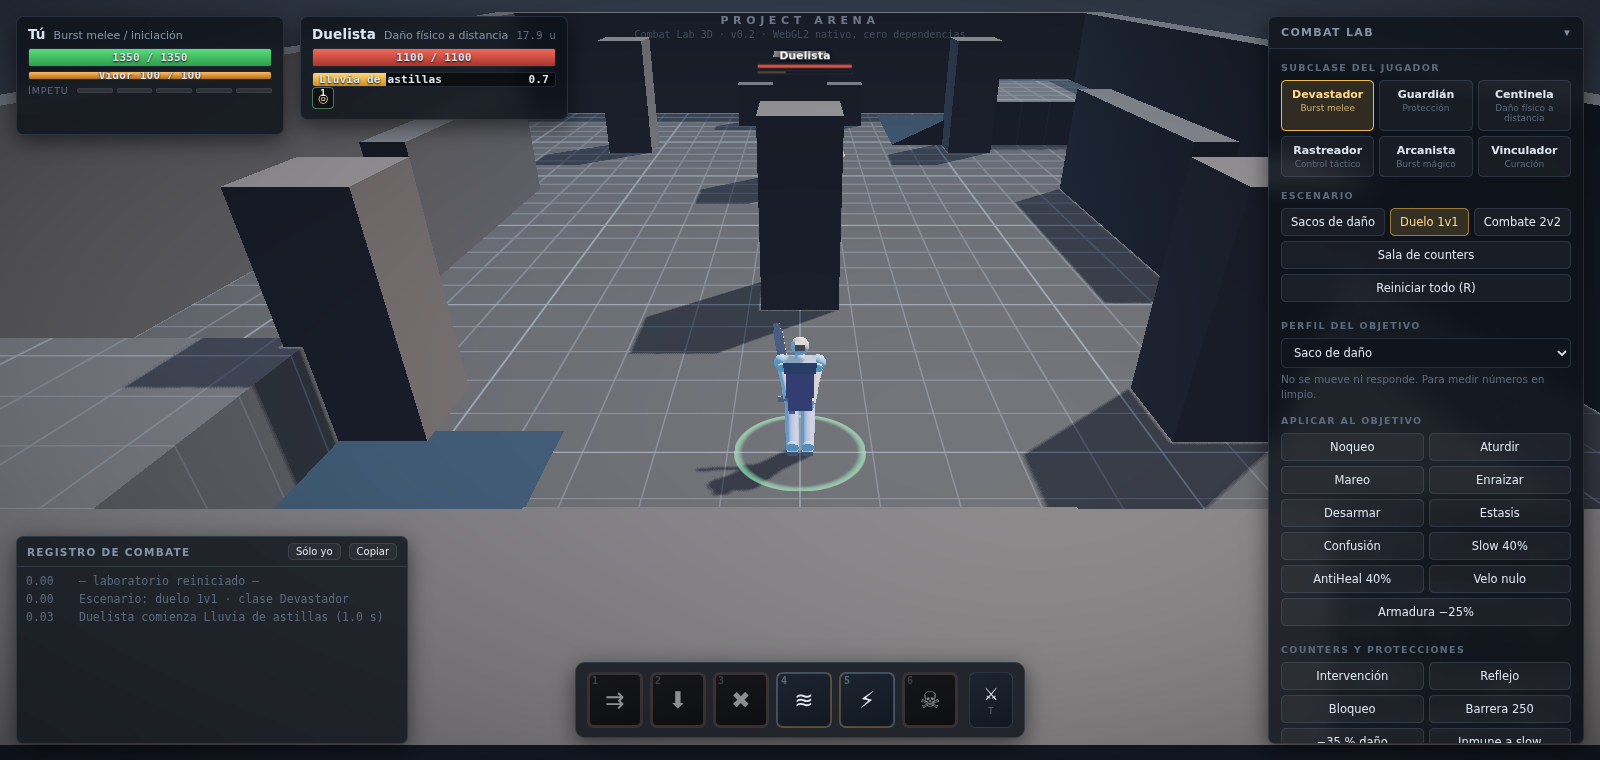
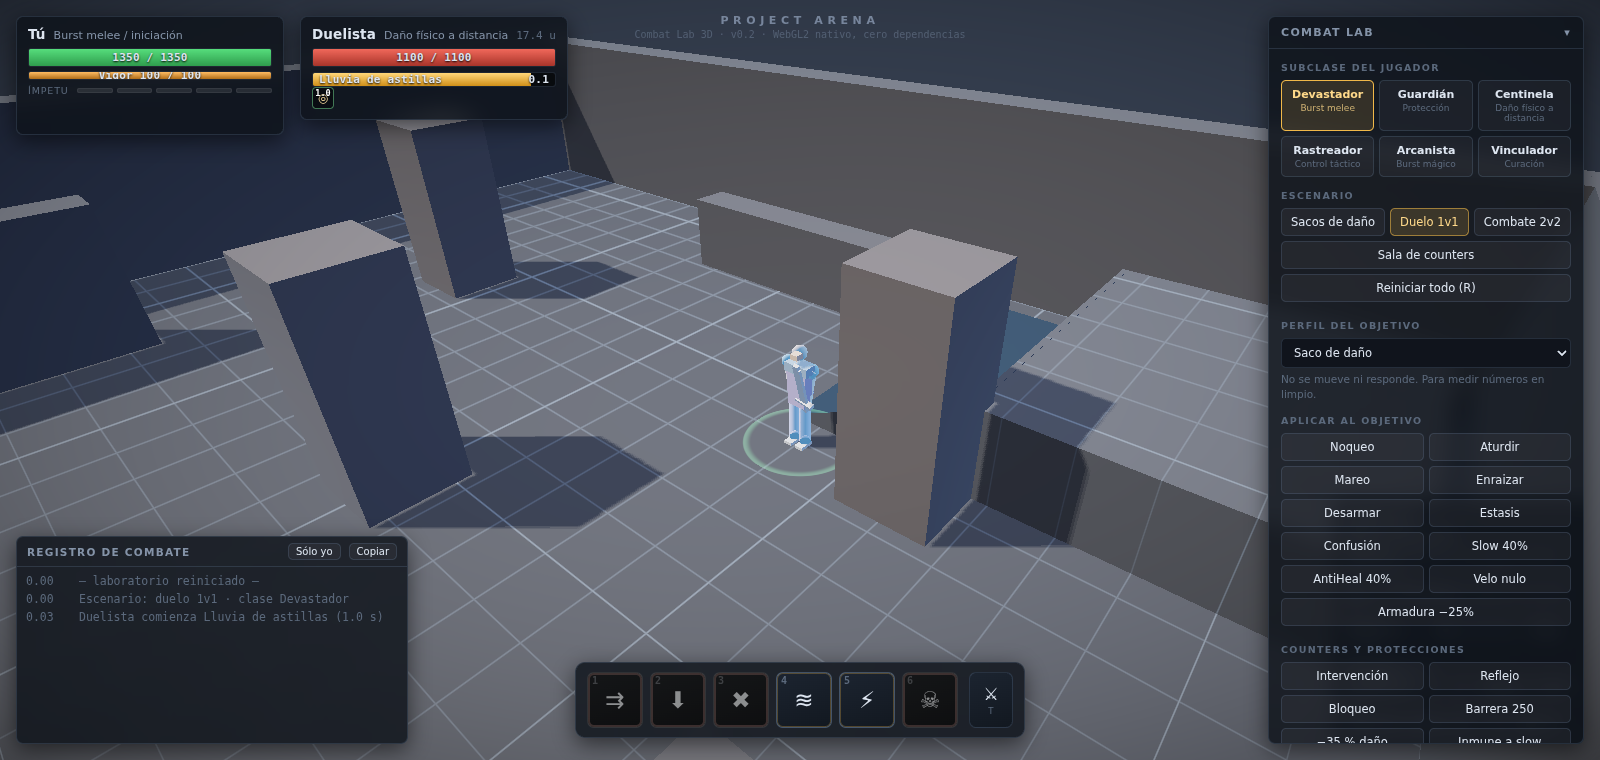
Luz de relleno: las siluetas dejan de fundirse con el fondo a contraluz
Segunda direccional fría, sin sombras, desde el lado opuesto a la principal.
Sin ella media silueta caía a negro justo cuando hay que leer quién es y qué
está haciendo, que es lo contrario del pilar de lectura visual inmediata.

Claude-Session: https://claude.ai/code/session_016cQCucQ5YPFtW8noBMGM6Q

diff --git a/js/render/shaders.js b/js/render/shaders.js
@@ -167,6 +167,13 @@ void main() {
 
   vec3 diffuse = uLightColor * ndl * shadow;
 
+  // Luz de relleno fría desde el lado opuesto, sin sombras. Es lo que separa un
+  // personaje del fondo cuando está a contraluz: sin ella, media silueta se
+  // funde en negro justo cuando hay que leer quién es y qué está haciendo.
+  vec3 fillDir = normalize(vec3(-L.x, 0.35, -L.z));
+  float ndf = saturate(dot(N, fillDir));
+  vec3 fill = uSkyColor * ndf * 1.45;
+
   float gloss = mix(64.0, 4.0, saturate(uRoughness));
   float spec = pow(saturate(dot(N, H)), gloss) * (1.0 - uRoughness) * shadow * ndl;
   vec3 specular = uLightColor * spec * mix(0.25, 1.0, uMetallic);
@@ -175,7 +182,7 @@ void main() {
   float rim = pow(1.0 - saturate(dot(N, V)), max(uRimPower, 0.001));
   vec3 rimLight = uRimColor * rim;
 
-  vec3 color = albedo * (ambient + diffuse) + specular + rimLight + uEmissive;
+  vec3 color = albedo * (ambient + diffuse + fill) + specular + rimLight + uEmissive;
 
   float fog = 1.0 - exp(-uFogDensity * uFogDensity * viewDist * viewDist);
   color = mix(color, uFogColor, saturate(fog));
